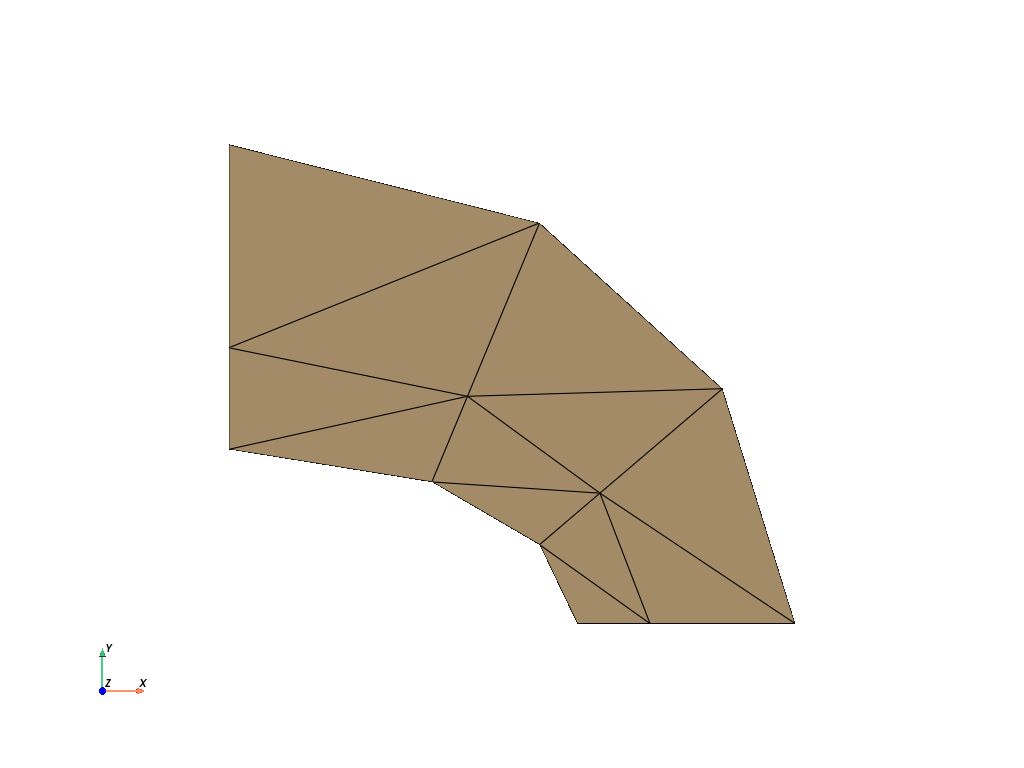
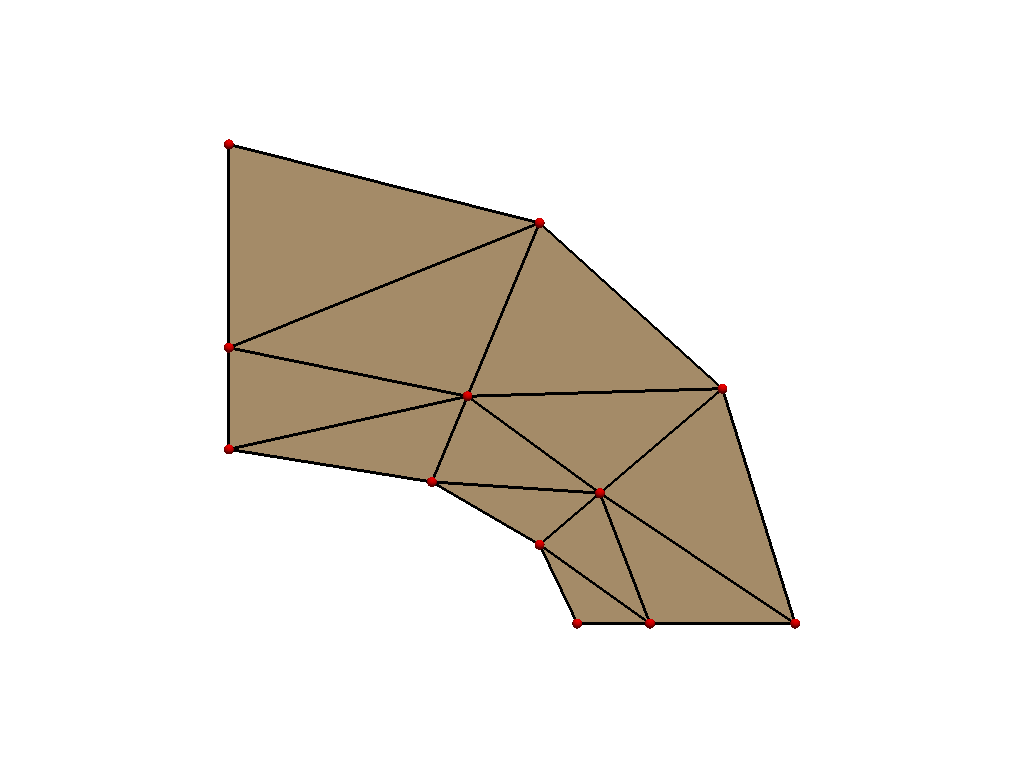
Fix plotting

diff --git a/benchmarks_data/structure/elliptic_membrane/GetFEM/mesh/coarse-triangle-2d.py b/benchmarks_data/structure/elliptic_membrane/GetFEM/mesh/coarse-triangle-2d.py
@@ -146,59 +146,13 @@ mesh = pv.read("coarse-triangle-2d.vtk")
 
 plotter = pv.Plotter()
 plotter.add_mesh(mesh)
-labels = [
-    "1",
-    "2",
-    "3",
-    "4",
-    "5",
-    "6",
-    "7",
-    "8",
-    "9",
-    "10",
-    "11",
-    "12",
-    "13",
-    "14",
-    "15",
-    "16",
-    "17",
-    "18",
-    "19",
-    "20",
-    "21",
-    "22",
-    "23",
-    "24",
-    "25",
-    "26",
-    "27",
-    "28",
-    "29",
-    "30",
-    "31",
-    "32",
-    "33",
-    "34",
-    "35",
-]
-plotter.add_point_labels(
-    mesh.points,
-    labels,
-    italic=True,
-    font_size=20,
-    point_color="red",
-    point_size=20,
-    render_points_as_spheres=True,
-    always_visible=True,
-    shadow=True,
-)
 plotter.add_mesh(
     mesh.separate_cells().extract_feature_edges(),
     show_edges=True,
     line_width=3,
     color="black",
 )
-
+plotter.add_points(
+    mesh.points, render_points_as_spheres=True, point_size=10.0, color="red"
+)
 plotter.show(cpos="xy", screenshot="coarse-triangle-2d.png")

diff --git a/benchmarks_data/structure/elliptic_membrane/GetFEM/mesh/coarse-quadrilateron-1d.py b/benchmarks_data/structure/elliptic_membrane/GetFEM/mesh/coarse-quadrilateron-1d.py
@@ -43,5 +43,17 @@ mesh.add_convex(gt, [[x[5], x[4], x[0], x[1]], [y[5], y[4], y[0], y[1]]])
 mesh.save("coarse-quadrilateron-1d.msh")
 mesh.export_to_vtk("coarse-quadrilateron-1d.vtk", "ascii")
 
-m = pv.read("coarse-quadrilateron-1d.vtk")
-m.plot(cpos="xy", show_edges=True, screenshot="coarse-quadrilateron-1d.png")
+mesh = pv.read("coarse-quadrilateron-1d.vtk")
+
+plotter = pv.Plotter()
+plotter.add_mesh(mesh)
+plotter.add_mesh(
+    mesh.separate_cells().extract_feature_edges(),
+    show_edges=True,
+    line_width=3,
+    color="black",
+)
+plotter.add_points(
+    mesh.points, render_points_as_spheres=True, point_size=10.0, color="red"
+)
+plotter.show(cpos="xy", screenshot="coarse-quadrilateron-1d.png")

diff --git a/benchmarks_data/structure/elliptic_membrane/GetFEM/mesh/fine-quadrilateron-1d.py b/benchmarks_data/structure/elliptic_membrane/GetFEM/mesh/fine-quadrilateron-1d.py
@@ -107,5 +107,17 @@ mesh.add_convex(gt, [[x[34], x[28], x[12], x[1]], [y[34], y[28], y[12], y[1]]])
 mesh.save("fine-quadrilateron-1d.msh")
 mesh.export_to_vtk("fine-quadrilateron-1d.vtk", "ascii")
 
-m = pv.read("fine-quadrilateron-1d.vtk")
-m.plot(cpos="xy", show_edges=True, screenshot="fine-quadrilateron-1d.png")
+mesh = pv.read("fine-quadrilateron-1d.vtk")
+
+plotter = pv.Plotter()
+plotter.add_mesh(mesh)
+plotter.add_mesh(
+    mesh.separate_cells().extract_feature_edges(),
+    show_edges=True,
+    line_width=3,
+    color="black",
+)
+plotter.add_points(
+    mesh.points, render_points_as_spheres=True, point_size=10.0, color="red"
+)
+plotter.show(cpos="xy", screenshot="fine-quadrilateron-1d.png")

diff --git a/benchmarks_data/structure/elliptic_membrane/GetFEM/mesh/coarse-triangle-1d.py b/benchmarks_data/structure/elliptic_membrane/GetFEM/mesh/coarse-triangle-1d.py
@@ -49,5 +49,17 @@ mesh.add_convex(gt, [[x[5], x[4], x[0]], [y[5], y[4], y[0]]])
 mesh.save("coarse-triangle-1d.msh")
 mesh.export_to_vtk("coarse-triangle-1d.vtk", "ascii")
 
-m = pv.read("coarse-triangle-1d.vtk")
-m.plot(cpos="xy", show_edges=True, screenshot="coarse-triangle-1d.png")
+mesh = pv.read("coarse-triangle-1d.vtk")
+
+plotter = pv.Plotter()
+plotter.add_mesh(mesh)
+plotter.add_mesh(
+    mesh.separate_cells().extract_feature_edges(),
+    show_edges=True,
+    line_width=3,
+    color="black",
+)
+plotter.add_points(
+    mesh.points, render_points_as_spheres=True, point_size=10.0, color="red"
+)
+plotter.show(cpos="xy", screenshot="coarse-triangle-1d.png")

diff --git a/benchmarks_data/structure/elliptic_membrane/GetFEM/mesh/fine-triangle-1d.py b/benchmarks_data/structure/elliptic_membrane/GetFEM/mesh/fine-triangle-1d.py
@@ -132,5 +132,17 @@ mesh.add_convex(gt, [[x[34], x[28], x[12]], [y[34], y[28], y[12]]])
 mesh.save("fine-triangle-1d.msh")
 mesh.export_to_vtk("fine-triangle-1d.vtk", "ascii")
 
-m = pv.read("fine-triangle-1d.vtk")
-m.plot(cpos="xy", show_edges=True, screenshot="fine-triangle-1d.png")
+mesh = pv.read("fine-triangle-1d.vtk")
+
+plotter = pv.Plotter()
+plotter.add_mesh(mesh)
+plotter.add_mesh(
+    mesh.separate_cells().extract_feature_edges(),
+    show_edges=True,
+    line_width=3,
+    color="black",
+)
+plotter.add_points(
+    mesh.points, render_points_as_spheres=True, point_size=10.0, color="red"
+)
+plotter.show(cpos="xy", screenshot="fine-triangle-1d.png")

diff --git a/benchmarks_data/structure/elliptic_membrane/GetFEM/mesh/fine-triangle-2d.py b/benchmarks_data/structure/elliptic_membrane/GetFEM/mesh/fine-triangle-2d.py
@@ -595,18 +595,6 @@ plotter.add_mesh(
     line_width=3,
     color="black",
 )
-# labels = ["29", "15", "38", "36", "37", "12"]
-# plotter.add_point_labels(
-#    mesh.points,
-#    labels,
-#    italic=True,
-#    font_size=20,
-#    point_color="red",
-#    point_size=20,
-#    render_points_as_spheres=True,
-#    always_visible=True,
-#    shadow=True,
-# )
 plotter.add_points(
     mesh.points, render_points_as_spheres=True, point_size=10.0, color="red"
 )
